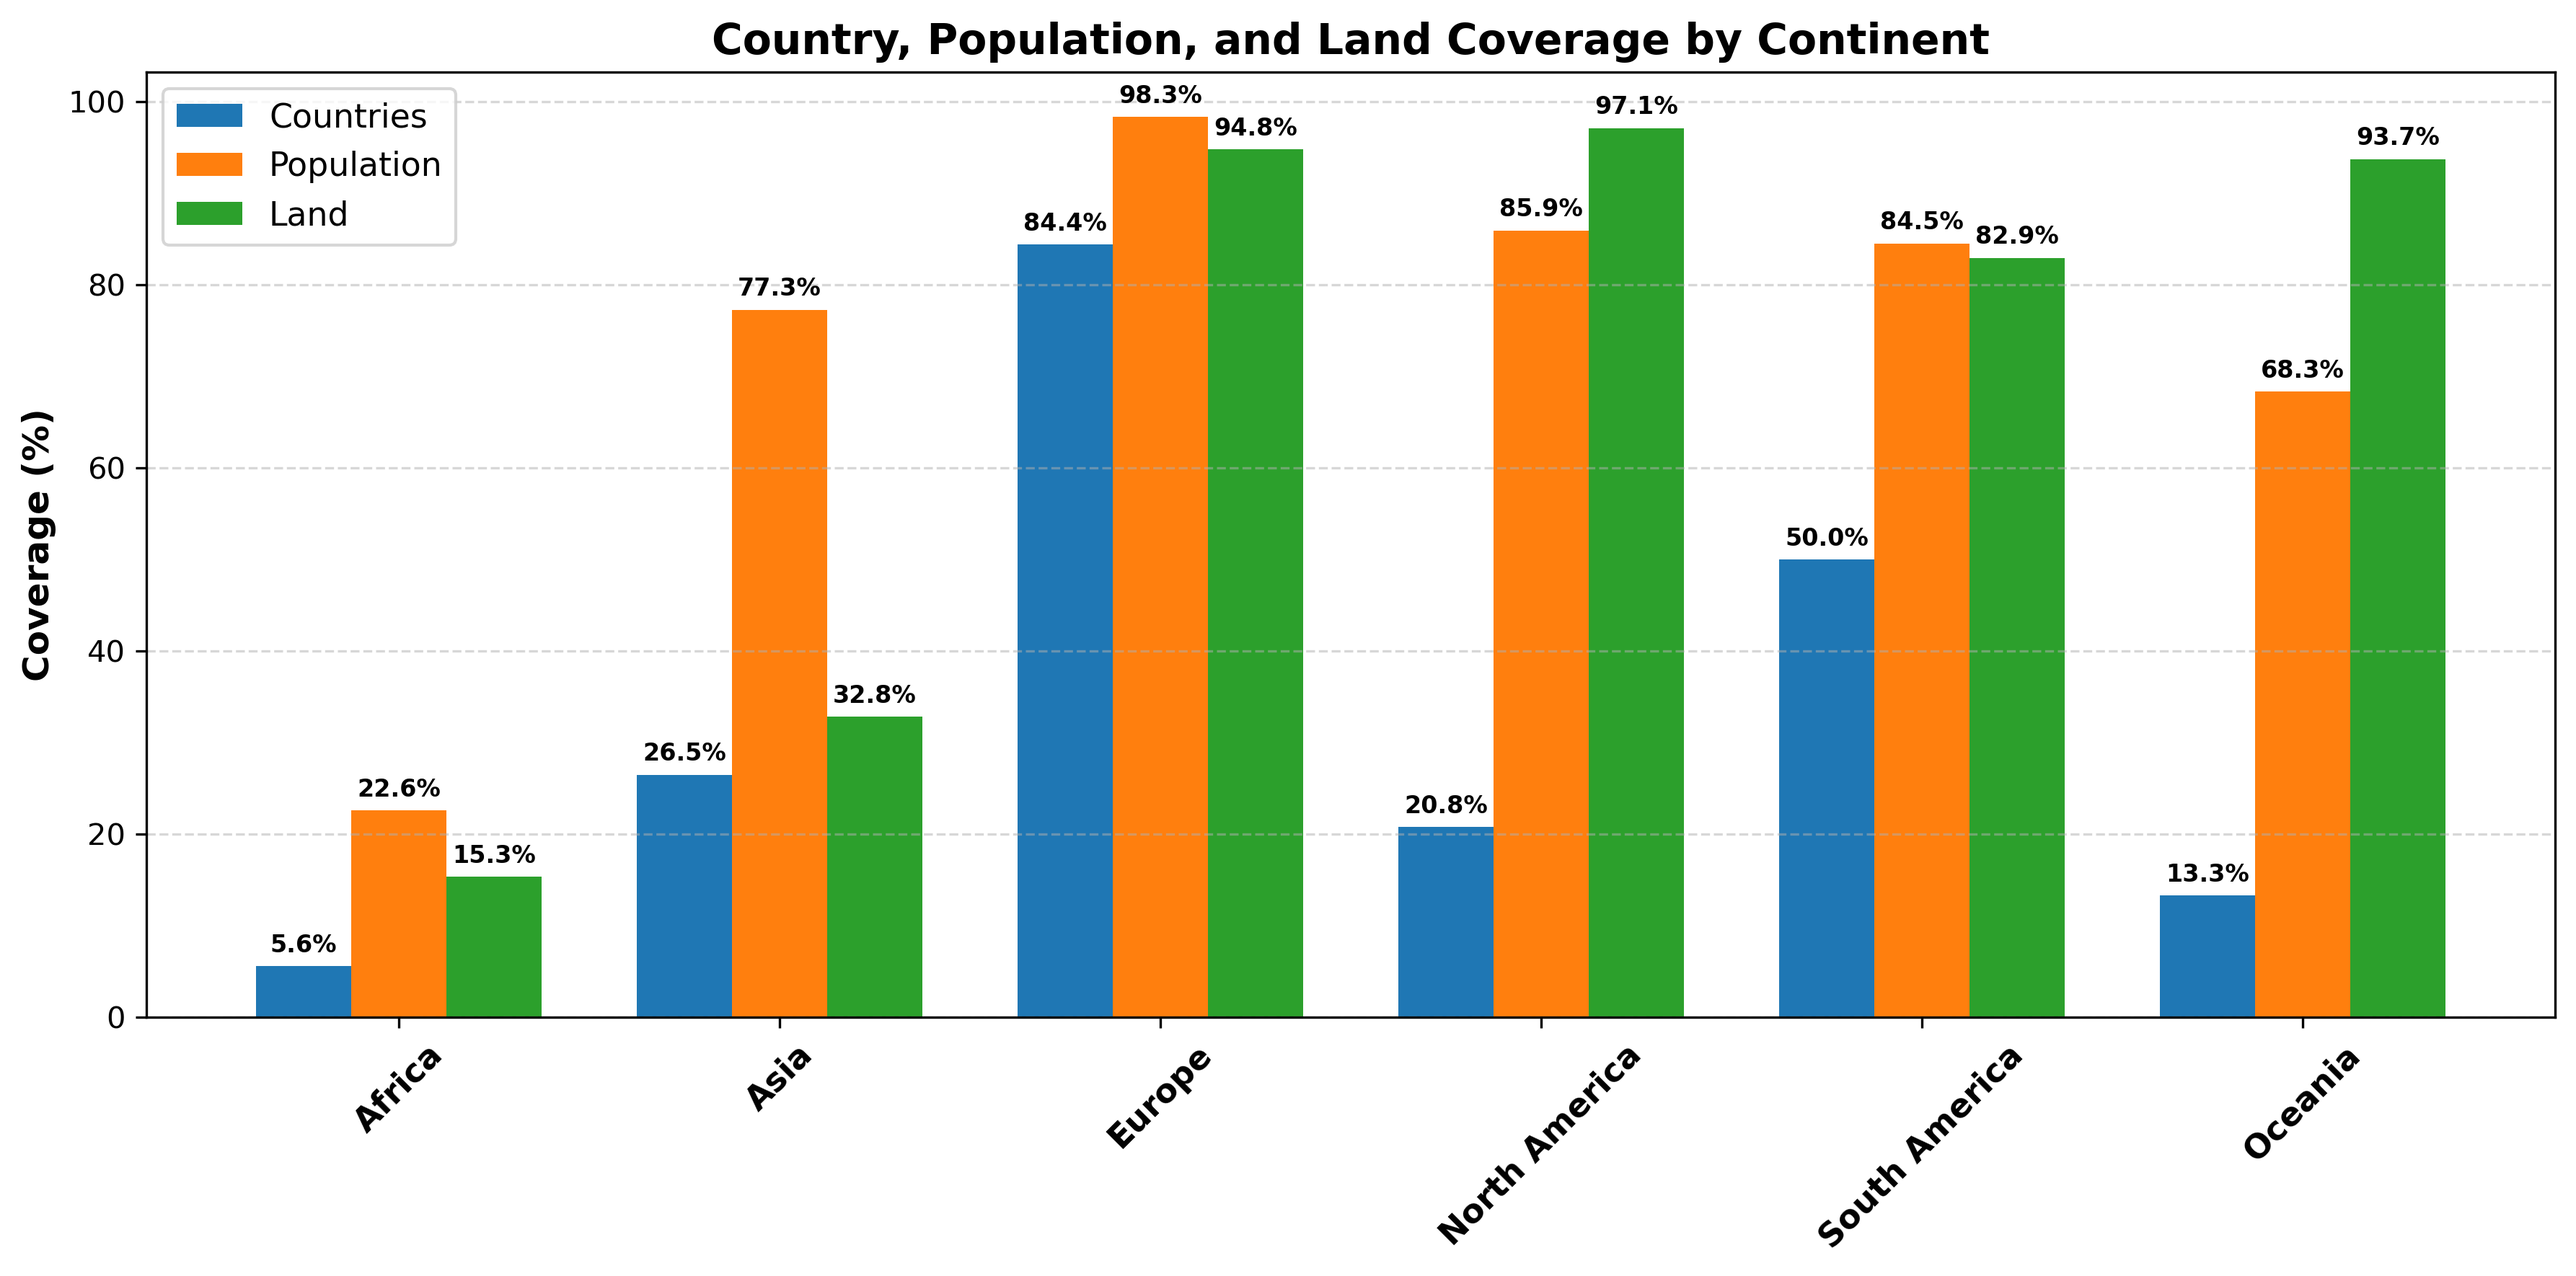
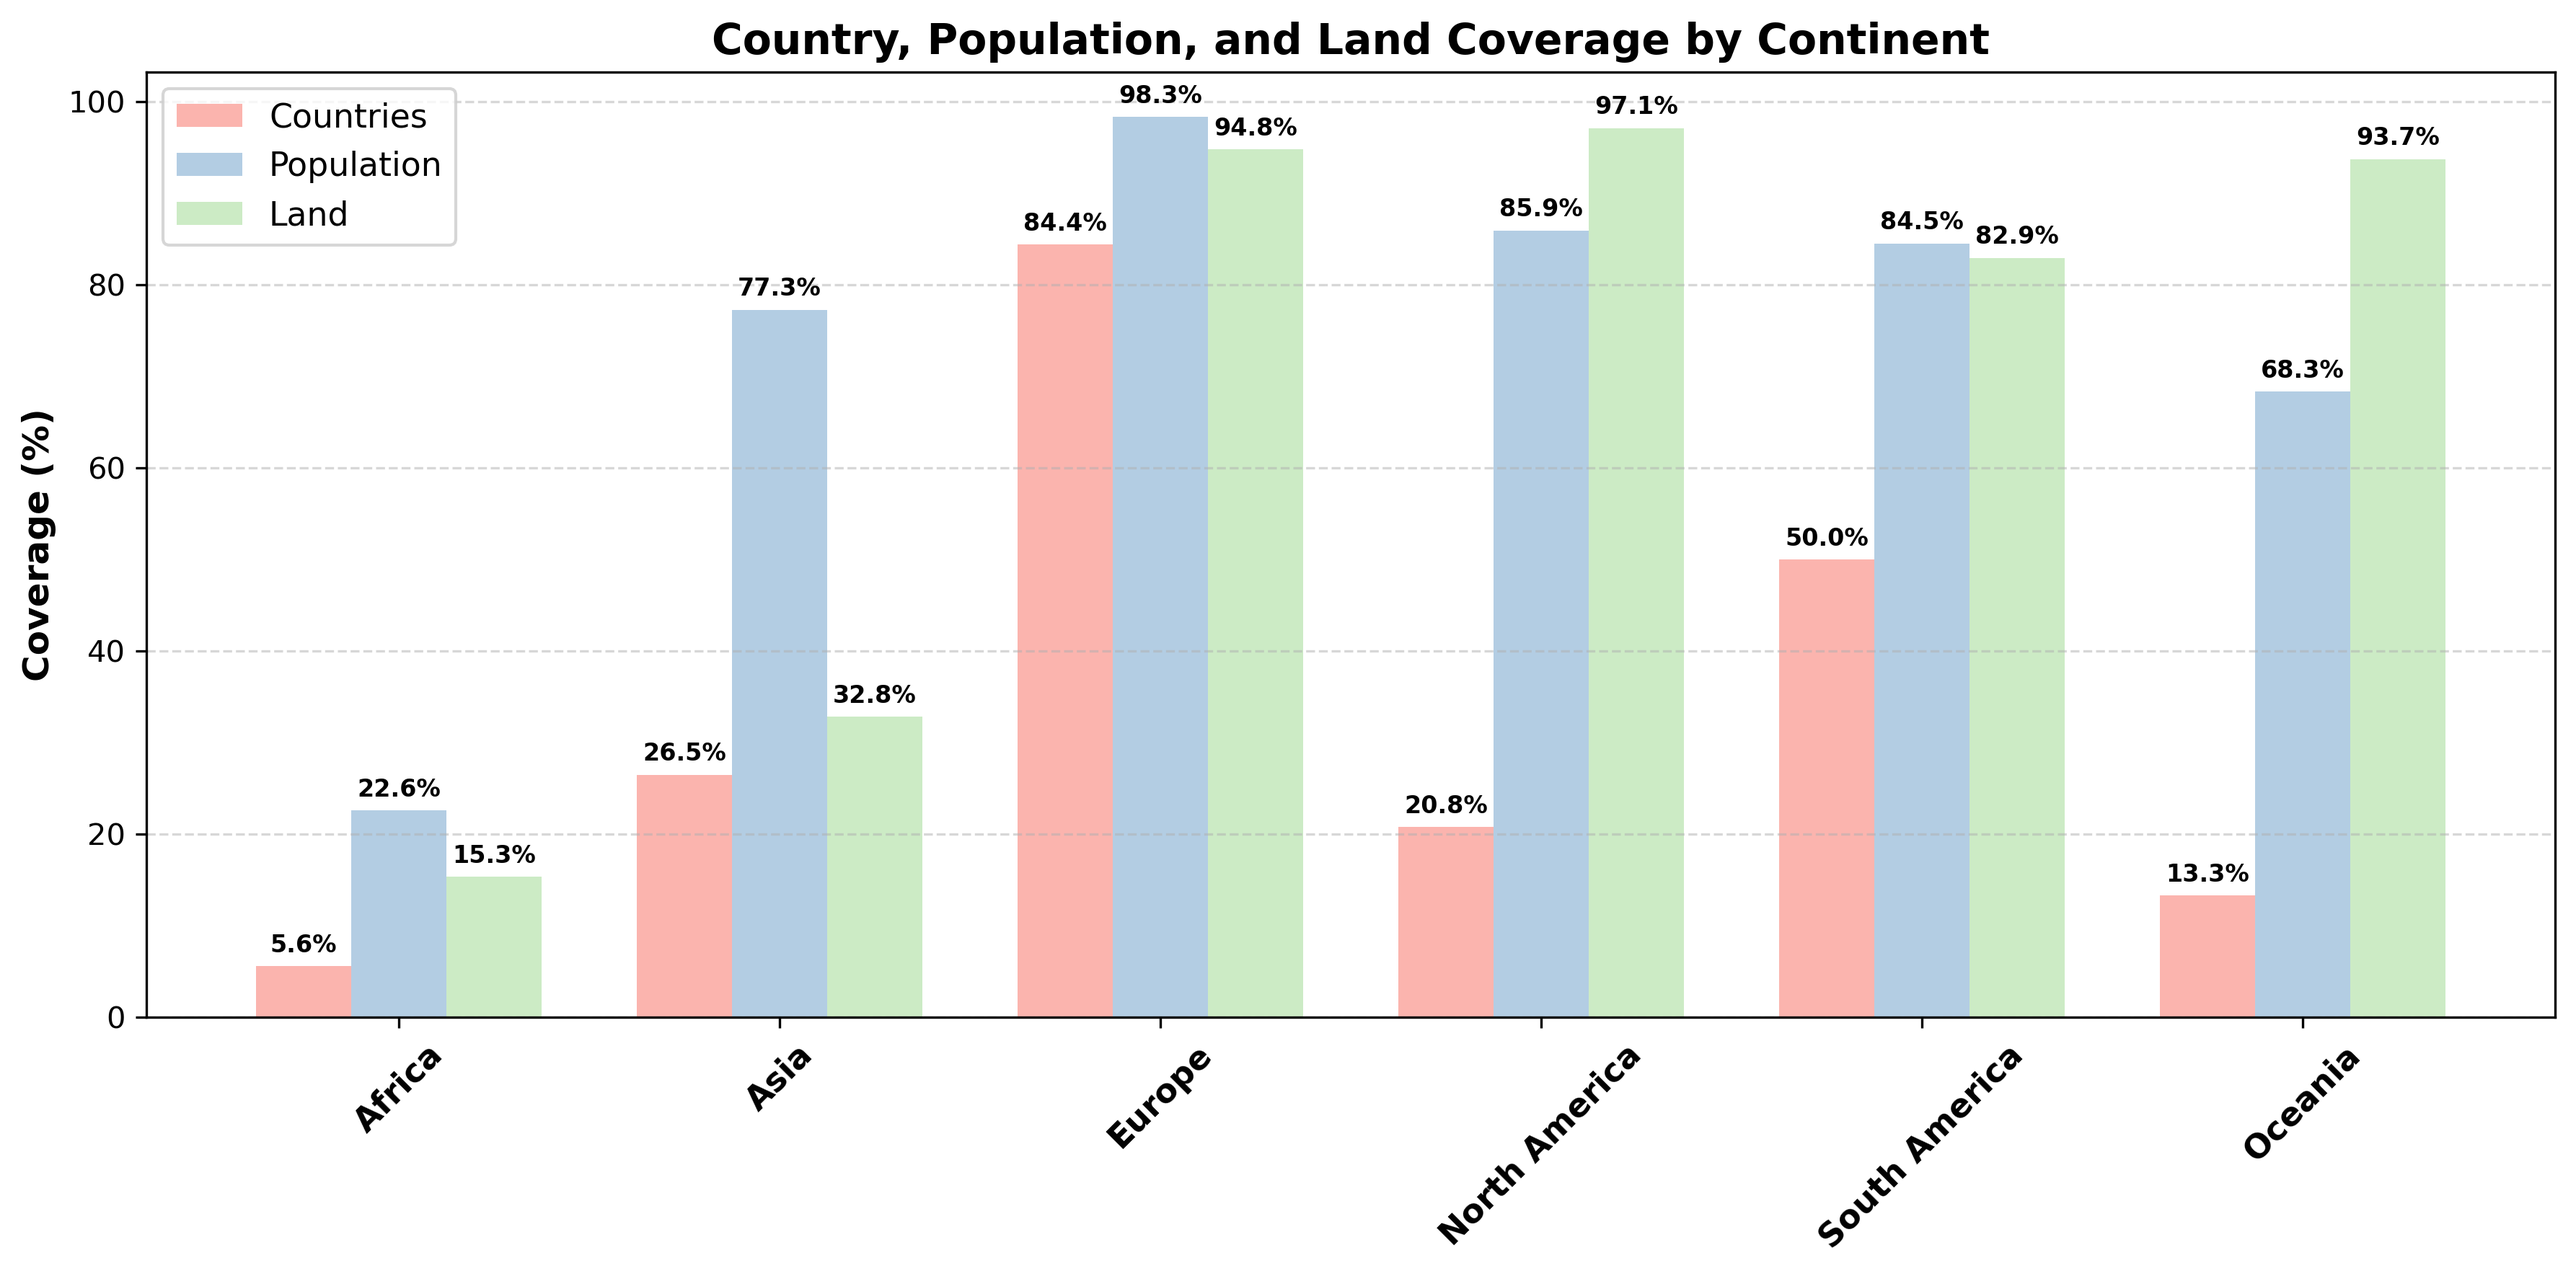
Update color palette for figures

diff --git a/figures/frequency_coverage_by_continent.py b/figures/frequency_coverage_by_continent.py
@@ -33,7 +33,7 @@ def plot_frequency_coverage(
     """
     continents = list(frequency_data.keys())
     frequencies = ["5-min", "10-min", "15-min", "30-min", "60-min"]  # fixed order
-    colors = ["#1f77b4", "#ff7f0e", "#2ca02c", "#d62728", "#9467bd"]
+    colors = ["#fdbe11", "#f7523a", "#da0e82", "#8a267f", "#676bbd"]
 
     # Prepare matrix: rows=continents, columns=frequencies
     years_matrix = [

diff --git a/figures/coverage_by_continent.py b/figures/coverage_by_continent.py
@@ -38,7 +38,7 @@ def plot_continent_coverage(
     plt.figure(figsize=(12, 6))
     x = range(len(continents))
     width = 0.25
-    colors = ["#1f77b4", "#ff7f0e", "#2ca02c"]
+    colors = ["#fbb4ae", "#b3cde3", "#ccebc5"]
 
     bars1 = plt.bar(
         [p - width for p in x],
